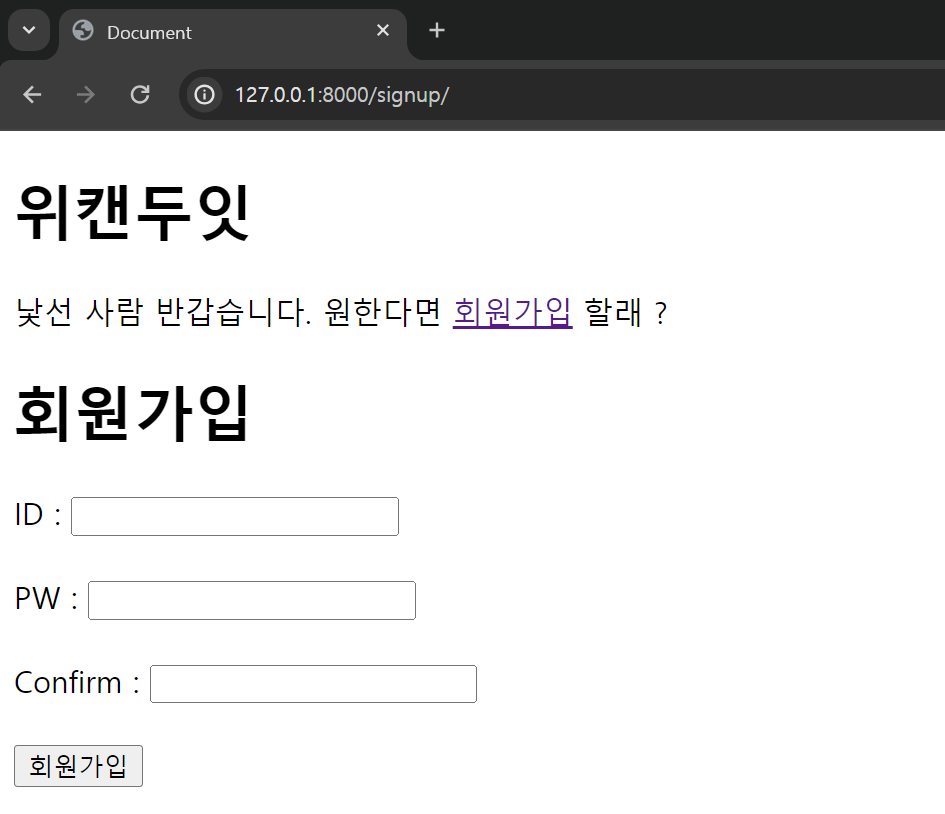
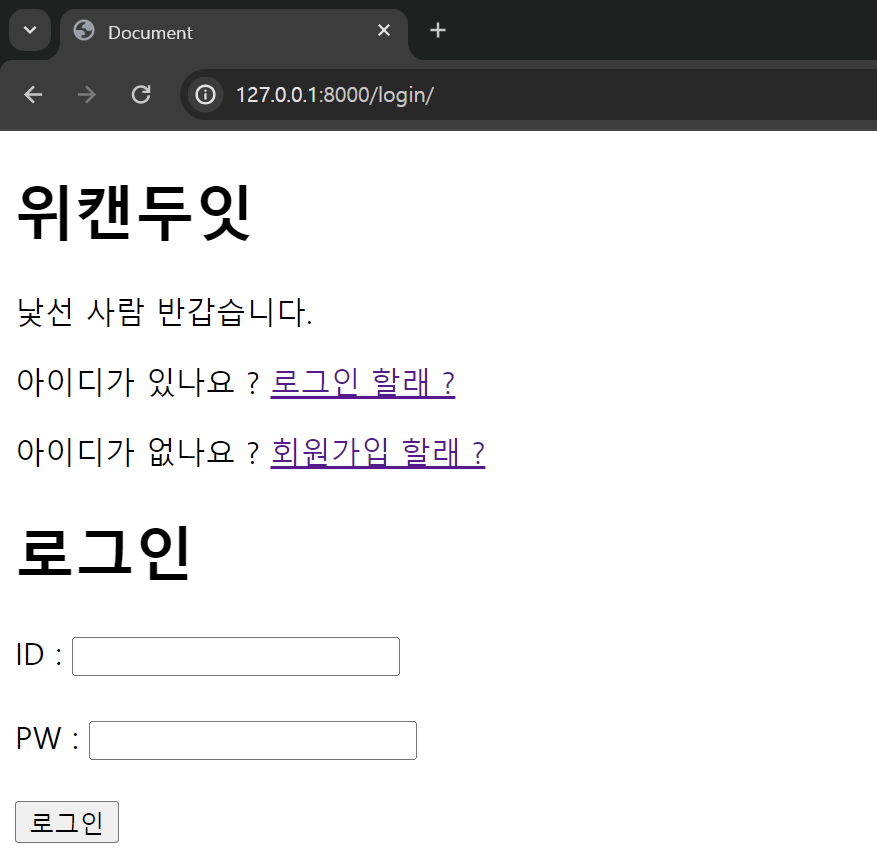
비로그인 상태에서 로그인, 회원가입 리다이렉트 페이지 생성

diff --git a/mysite/accounts/templates/base.html b/mysite/accounts/templates/base.html
@@ -23,7 +23,9 @@
     <!--username 에게 인사를 합시다-->
     {% else %}
     <!-- 만약 안받았다면 -->
-    <p>낯선 사람 반갑습니다. 원한다면 <a href="/signup/">회원가입</a> 할래 ?</p>
+    <p>낯선 사람 반갑습니다.</p>
+    <p>아이디가 있나요 ? <a href="/login/">로그인 할래 ?</a></p>
+    <p>아이디가 없나요 ? <a href="/signup/">회원가입 할래 ?</a></p>
     <!--낯선이에게 반갑다고 인사합시다-->
     {% endif %} {% block content %}{% endblock %}
   </body>

diff --git a/docs/6.Home 페이지 수정하기/readme.md b/docs/6.Home 페이지 수정하기/readme.md
@@ -150,7 +150,9 @@ def logout(request):
     <!--username 에게 인사를 합시다-->
     {% else %}
     <!-- 만약 안받았다면 -->
-    <p>낯선 사람 반갑습니다. 원한다면 <a href="/signup/">회원가입</a> 할래 ?</p>
+    <p>낯선 사람 반갑습니다.</p>
+    <p>아이디가 있나요 ? <a href="/login/">로그인 할래 ?</a></p>
+    <p>아이디가 없나요 ? <a href="/signup/">회원가입 할래 ?</a></p>
     <!--낯선이에게 반갑다고 인사합시다-->
     {% endif %} {% block content %}{% endblock %}
   </body>
@@ -159,8 +161,12 @@ def logout(request):
 
 ![alt text](image-2.png)
 
-`a` 태그를 이용해서 회원가입으로 리다이렉트 시킬 수 있도록 하였다.
+다음처럼 로그인이 안되어있다면 로그인 혹은 회원가입 페이지로 이동 시키는 `a` 태그를 생성해주었다.
 
 ![alt text](image-3.png)
 
-해당 버튼을 누르면 회원가입 페이지로 이동한다.
+로그인 버튼을 누르면 로그인으로
+
+![alt text](image-4.png)
+
+회원 가입 버튼을 누르면 회원가입 페이지로 이동한다.
